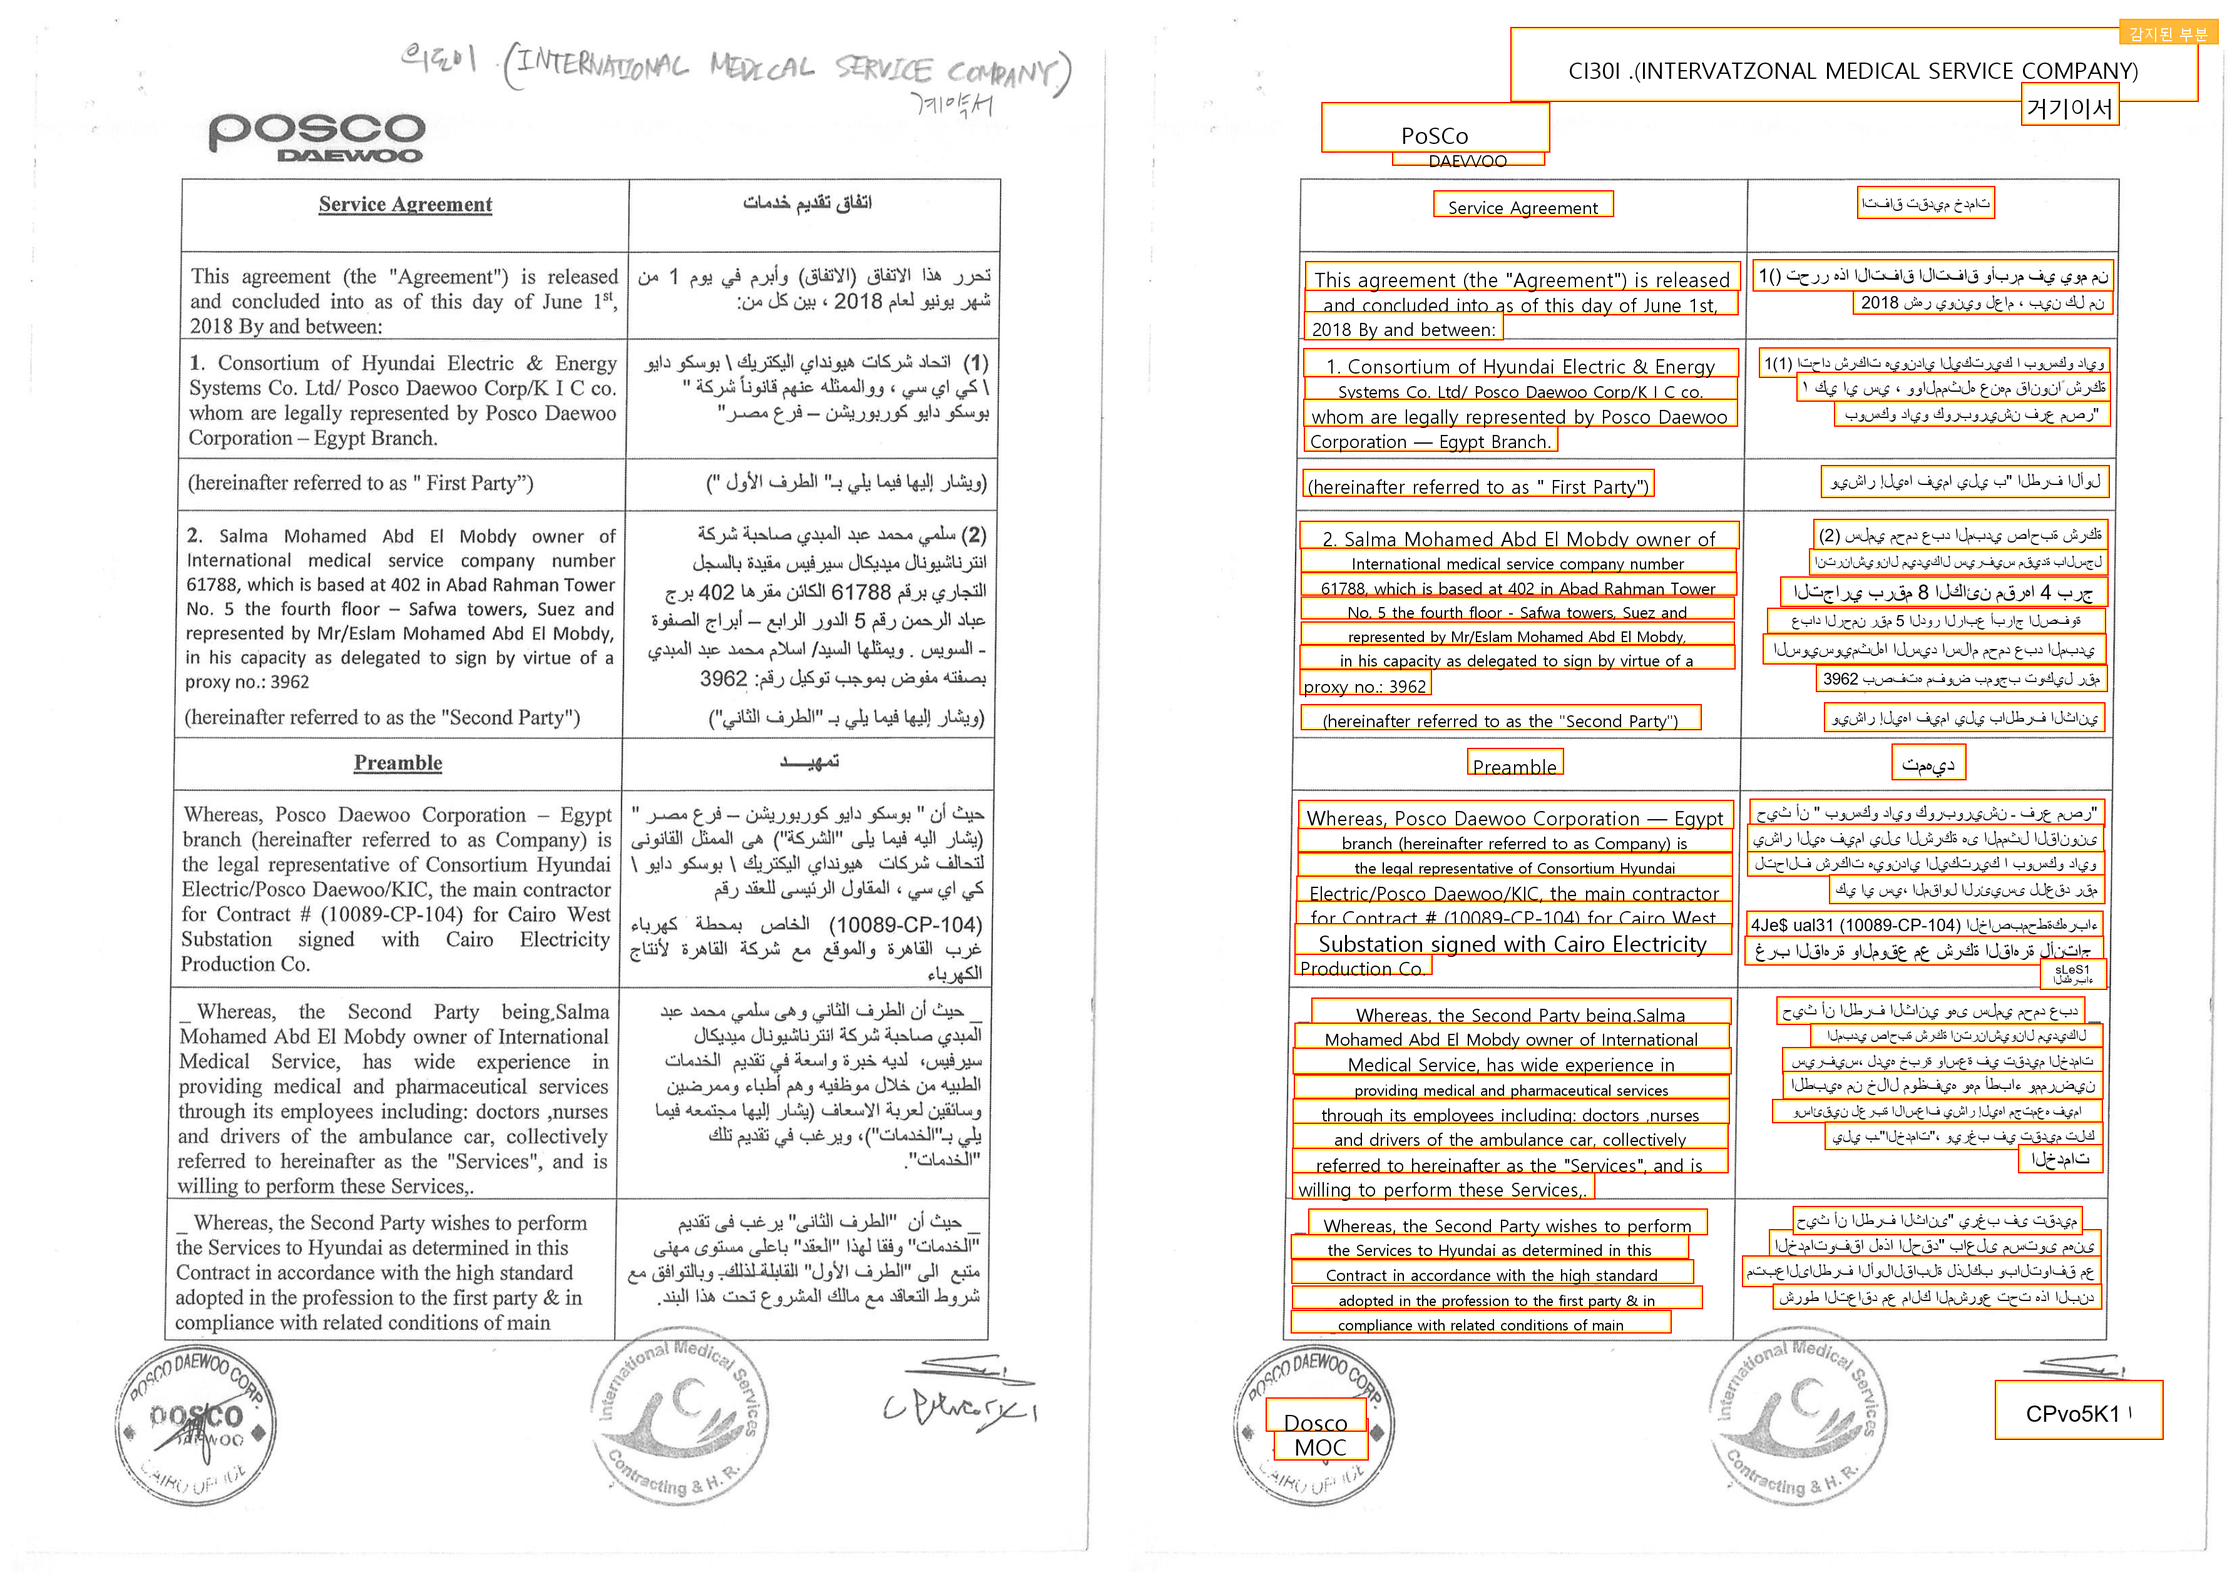
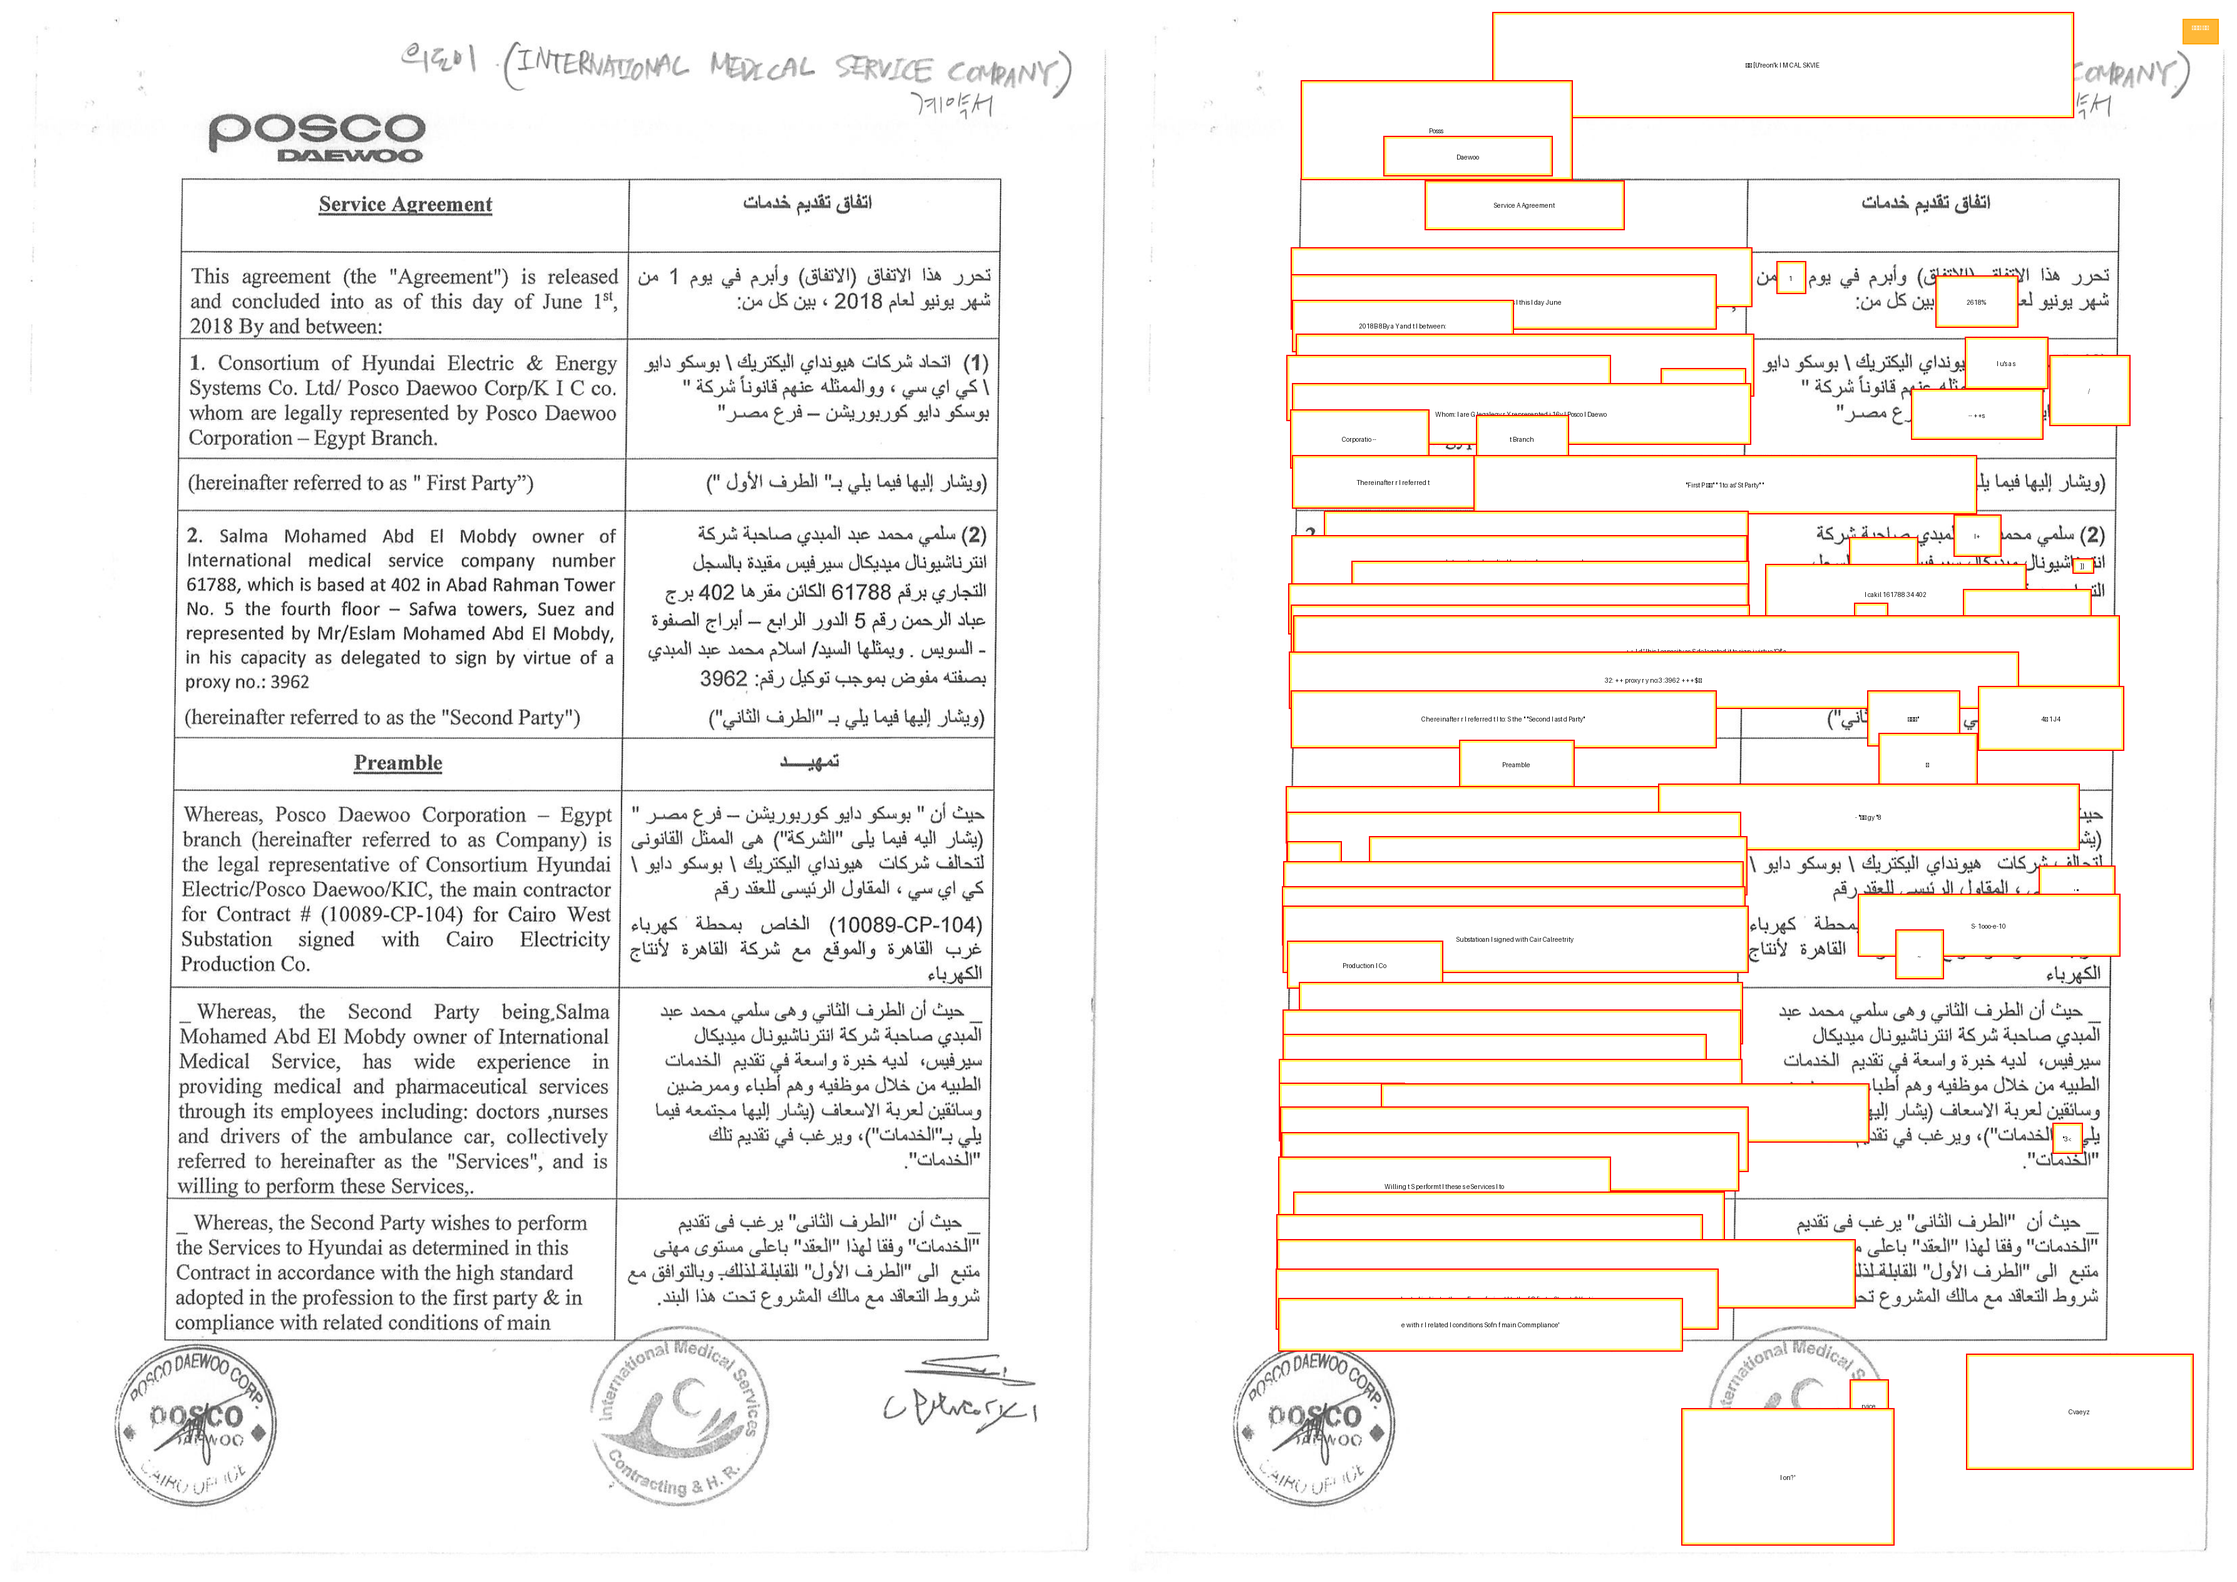
Optimize OCR processing by disabling angle classification for faster performance, update PaddleOCR initialization parameters for improved accuracy, and enhance README with installation instructions and usage examples for different processing modes. Remove outdated OCR result images.

Changed region(s): [[0.559, 0.0, 0.9938, 0.9375], [0.7454, 0.875, 0.8696, 0.9688]]

diff --git a/final-gpu.py b/final-gpu.py
@@ -1522,8 +1522,9 @@ def process_pdf_page_ocr_only(page, ocr, ocr_type='paddle', ocr_ar=None, debug=F
             # PaddleOCR 사용
             if ocr_ar is not None:
                 # 두 OCR 모두 실행 (한국어+영어와 중국어/아랍어+영어)
-                result_ko = ocr.ocr(tmp_path, cls=True)
-                result_other = ocr_ar.ocr(tmp_path, cls=True)
+                # cls=False for faster processing (angle classifier already enabled in initialization)
+                result_ko = ocr.ocr(tmp_path, cls=False)
+                result_other = ocr_ar.ocr(tmp_path, cls=False)
                 
                 # 두 결과를 합치기 (중복 제거를 위해 bbox 기반으로)
                 all_rec_texts = []
@@ -1736,8 +1737,8 @@ def process_pdf_page_ocr_only(page, ocr, ocr_type='paddle', ocr_ar=None, debug=F
                         except Exception as e:
                             pass
             else:
-                # 단일 OCR 사용
-                result = ocr.ocr(tmp_path, cls=True)
+                # 단일 OCR 사용 (OCR-only mode: faster, no need for cls since angle classifier is enabled in init)
+                result = ocr.ocr(tmp_path, cls=False)
                 
                 # PaddleOCR 결과 파싱
                 texts, bboxes, scores = parse_paddleocr_result(result)
@@ -3640,13 +3641,19 @@ elif OCR_ENGINE == 'paddle':
         # 모든 언어 번역: 한국어 OCR, 중국어 OCR, 아랍어 OCR 모두 사용
         print("  → 한국어 OCR 모델 사용 (한국어, 영어 인식)")
         ocr = PaddleOCR(
-            use_angle_cls=False,
+            use_angle_cls=True,  # Enable angle classifier for better accuracy
             use_gpu=True,
             show_log=False,
             use_doc_orientation_classify=True,
             use_doc_unwarping=False,
             use_textline_orientation=False,
-            lang='korean'  # 한국어 모드 (한국어, 영어 인식)
+            lang='korean',  # 한국어 모드 (한국어, 영어 인식)
+            det_db_unclip_ratio=2.0,  # Text region expansion ratio (better for longer text)
+            det_limit_side_len=1920,  # Image size limit (higher = more accurate)
+            max_text_length=50,  # Maximum text length (default 25, increase for longer sentences)
+            rec_batch_num=6,  # Recognition batch size (faster processing)
+            det_db_thresh=0.3,  # Text detection threshold (lower = detect more text)
+            det_db_box_thresh=0.6  # Text box threshold
         )
         print("  → 중국어 OCR 모델 사용 (한자, 영어 인식)")
         ocr_ch = PaddleOCR(
@@ -3747,8 +3754,9 @@ if OCR_VIEW_MODE:
             pbar.set_description(f"페이지 {display_page_num}/{total_pages} 처리 중")
             
             # 페이지 처리 (OCR만 수행)
+            # OCR-only mode: use only main OCR for speed (no need for multiple OCR instances)
             pbar.set_postfix({"단계": "OCR 수행 중"})
-            original_img, ocr_img = process_pdf_page_ocr_only(page, ocr, ocr_type=OCR_ENGINE, ocr_ar=ocr_ar, debug=False, page_num=display_page_num)
+            original_img, ocr_img = process_pdf_page_ocr_only(page, ocr, ocr_type=OCR_ENGINE, ocr_ar=None, debug=False, page_num=display_page_num)
             
             # 두 이미지를 나란히 붙이기 (왼쪽: 원본, 오른쪽: OCR 결과)
             pbar.set_postfix({"단계": "이미지 결합 중"})

diff --git a/README.md b/README.md
@@ -42,12 +42,25 @@ pip install torch==2.2.0 torchvision==0.17.0 torchaudio==2.2.0 --index-url https
 
 If you need PaddleOCR, install it separately:
 
+**Important:** PaddlePaddle 3.0.0+ is required for OpenSSL 3.0 compatibility (Ubuntu 22.04+ systems). The GPU version must be installed from the official PaddlePaddle repository, not PyPI.
+
+For **GPU version** (CUDA 11.8):
 ```bash
-pip install paddlepaddle-gpu>=2.5.0
-pip install paddleocr>=2.7.0
+python -m pip install paddlepaddle-gpu==3.0.0 -i https://www.paddlepaddle.org.cn/packages/stable/cu118/
+pip install paddleocr==2.7.0
 ```
 
-**Note:** PaddleOCR installation may require additional system dependencies. Refer to [PaddleOCR documentation](https://github.com/PaddlePaddle/PaddleOCR) for details.
+For **CPU version**:
+```bash
+pip install paddlepaddle==3.0.0
+pip install paddleocr==2.7.0
+```
+
+**Note:** 
+- PaddlePaddle 2.x versions require OpenSSL 1.1, which is not available on Ubuntu 22.04+ systems (which have OpenSSL 3.0)
+- Version 3.0.0+ supports OpenSSL 3.0 and is compatible with modern Linux distributions
+- The GPU version must be installed from the official PaddlePaddle repository to ensure GPU support
+- PaddleOCR installation may require additional system dependencies. Refer to [PaddleOCR documentation](https://github.com/PaddlePaddle/PaddleOCR) for details.
 
 ### Step 5: Install common packages from requirements.txt
 
@@ -64,6 +77,9 @@ Verify that all packages are installed correctly:
 ```bash
 # Check PyTorch installation
 python -c "import torch; print(f'PyTorch: {torch.__version__}'); print(f'CUDA available: {torch.cuda.is_available()}')"
+
+# Check PaddlePaddle GPU (if installed)
+python -c "import paddle; print(f'PaddlePaddle version: {paddle.__version__}'); print(f'GPU available: {paddle.device.is_compiled_with_cuda()}'); print(f'GPU count: {paddle.device.cuda.device_count() if paddle.device.is_compiled_with_cuda() else 0}')"
 
 # Check PaddleOCR (if installed)
 python -c "from paddleocr import PaddleOCR; print('PaddleOCR installed successfully')"
@@ -87,10 +103,51 @@ Or you can modify the `OPENAI_API_KEY` variable directly in the script files.
 
 ## Usage
 
+### Processing Modes
+
+The script supports three main processing modes:
+
+1. **OCR-Only Mode** (`--ocr-view` or `--ocr-only`): Fast mode that shows OCR results without translation
+   - Shows: **Original | OCR Result** side by side
+   - No API calls, very fast
+   - Use this to check OCR accuracy before translation
+
+2. **Full View Mode** (`--full-view` or `--ocr-translate-view`): Complete processing with OCR and translation
+   - Shows: **Original | OCR Result | Translation** side by side
+   - Includes translation via OpenAI API (slower, costs API credits)
+   - Use this for final translated output
+
+3. **Translation Mode** (default): Creates translated PDF only
+   - Generates translated PDF file
+   - No comparison images (unless using `--full-view`)
+
 ### GPU Version (Recommended for faster processing)
 
+**OCR-Only Mode (Fast - Check OCR results first):**
 ```bash
-python final-gpu.py --file ./sample_data/마일스톤.pdf --ocr paddle --model gpt-4o --mode all
+# Process all pages - OCR only
+python final-gpu.py --file ./sample_data/2.2.4 의료비 지출내역.pdf --ocr paddle --ocr-view
+
+# Process specific pages - OCR only
+python final-gpu.py --file ./sample_data/2.2.4 의료비 지출내역.pdf --ocr paddle --ocr-view 2,3,4
+```
+
+**Full View Mode (OCR + Translation):**
+```bash
+# Process all pages with translation
+python final-gpu.py --file ./sample_data/2.2.4 의료비 지출내역.pdf --ocr paddle --model gpt-4o --mode all --full-view
+
+# Process specific pages with translation
+python final-gpu.py --file ./sample_data/2.2.4 의료비 지출내역.pdf --ocr paddle --model gpt-4o --mode all --full-view 2,3,4
+```
+
+**Translation Mode (Default - Translated PDF only):**
+```bash
+# Process all pages - translation only
+python final-gpu.py --file ./sample_data/2.2.4 의료비 지출내역.pdf --ocr paddle --model gpt-4o --mode all
+
+# Process specific pages - translation only
+python final-gpu.py --file ./sample_data/2.2.4 의료비 지출내역.pdf --ocr paddle --model gpt-4o --mode all 2,3,4
 ```
 
 ### CPU Version
@@ -101,11 +158,33 @@ python final-cpu.py --file ./sample_data/your_file.pdf --ocr paddle --model gpt-
 
 ### Command Line Arguments
 
-- `--file`: Path to the PDF file to process
-- `--ocr`: OCR engine to use (`paddle`, `easyocr`, etc.)
-- `--model`: OpenAI model to use (`gpt-4o`, `gpt-4o-mini`, `gpt-3.5-turbo`, etc.)
-- `--mode`: Processing mode
-- `--ocr-view`: Display OCR results (optional)
+- `--file` or `-f`: Path to the PDF file to process
+- `--ocr` or `-o`: OCR engine to use (`paddle`, `easyocr`)
+- `--model` or `-m`: OpenAI model to use (`gpt-4o`, `gpt-4o-mini`, `gpt-3.5-turbo`, etc.)
+- `--mode`: Translation mode (`all`, `eng_only`, `eng_chi`, `eng_ar`)
+  - `all`: Translate all languages (English, Arabic, Chinese)
+  - `eng_only`: Translate only English
+  - `eng_chi`: Translate English only (keep Chinese characters)
+  - `eng_ar`: Translate English and Arabic
+- `--ocr-view` or `--ocr-only`: OCR-only mode (fast, no translation)
+- `--full-view` or `--ocr-translate-view`: Full view mode (OCR + Translation with comparison images)
+- **Page numbers**: Specify at the end of command (e.g., `1`, `1,3,5`, `1-10`, `1,3,5-8`)
+
+### Page Selection Examples
+
+```bash
+# Single page
+python final-gpu.py --file document.pdf --ocr paddle --ocr-view 1
+
+# Multiple specific pages
+python final-gpu.py --file document.pdf --ocr paddle --ocr-view 2,3,4
+
+# Page range
+python final-gpu.py --file document.pdf --ocr paddle --ocr-view 1-10
+
+# Mixed (specific pages + range)
+python final-gpu.py --file document.pdf --ocr paddle --ocr-view 1,3,5-8,10-15
+```
 
 ## Project Structure
 
@@ -131,10 +210,20 @@ These packages require special installation methods:
    ```
 
 2. **PaddleOCR** (optional):
+   
+   **For GPU version (CUDA 11.8):**
    ```bash
-   pip install paddlepaddle-gpu>=2.5.0
-   pip install paddleocr>=2.7.0
+   python -m pip install paddlepaddle-gpu==3.0.0 -i https://www.paddlepaddle.org.cn/packages/stable/cu118/
+   pip install paddleocr==2.7.0
    ```
+   
+   **For CPU version:**
+   ```bash
+   pip install paddlepaddle==3.0.0
+   pip install paddleocr==2.7.0
+   ```
+   
+   **Important:** PaddlePaddle 3.0.0+ is required for OpenSSL 3.0 compatibility. The GPU version must be installed from the official PaddlePaddle repository (not PyPI) to ensure GPU support.
 
 ### Common Packages (from requirements.txt)
 
@@ -153,6 +242,19 @@ See `requirements.txt` for the complete list of common dependencies.
 - Check GPU status: `nvidia-smi`
 - Verify PyTorch CUDA: `python -c "import torch; print(torch.cuda.is_available())"`
 
+### PaddlePaddle OpenSSL Issues
+
+- **Error: `libssl.so.1.1: cannot open shared object file`**
+  - This occurs when using PaddlePaddle 2.x on systems with OpenSSL 3.0 (Ubuntu 22.04+)
+  - **Solution:** Install PaddlePaddle 3.0.0+ which supports OpenSSL 3.0:
+    ```bash
+    # For GPU version
+    python -m pip install paddlepaddle-gpu==3.0.0 -i https://www.paddlepaddle.org.cn/packages/stable/cu118/
+    
+    # For CPU version
+    pip install paddlepaddle==3.0.0
+    ```
+
 ### PaddlePaddle cuDNN Issues
 
 - If you see `RuntimeError: Cannot load cudnn shared library`, set the library path before running:
@@ -163,6 +265,7 @@ See `requirements.txt` for the complete list of common dependencies.
   ```bash
   conda install -c conda-forge cudnn=8.9.2.26=cuda11_0 -y
   ```
+- **Note:** PaddlePaddle 3.0.0 will automatically install the required cuDNN version during installation
 
 ### OCR Library Issues
 
@@ -191,12 +294,36 @@ See `requirements.txt` for the complete list of common dependencies.
 - Check your OpenAI account quota and billing
 - Ensure you have internet connection for API calls
 
+## Output Files
+
+### OCR-Only Mode (`--ocr-view`)
+- **Images**: Saved in `results/` folder
+  - Format: `ocr_result_{OCR_ENGINE}_{filename}_page_{page_number}.png`
+  - Shows: Original | OCR Result side by side
+
+### Full View Mode (`--full-view`)
+- **Images**: Saved in `results/` folder
+  - Format: `full_result_{OCR_ENGINE}_{filename}_page_{page_number}.png`
+  - Shows: Original | OCR Result | Translation side by side
+- **PDF**: Saved in current directory
+  - Format: `translated_{filename}.pdf` or `translated_{filename}_page_{pages}.pdf`
+  - Contains translated pages only
+
+### Translation Mode (default)
+- **PDF**: Saved in current directory
+  - Format: `translated_{filename}.pdf` or `translated_{filename}_page_{pages}.pdf`
+  - Contains translated pages only
+
 ## Notes
 
 - The project supports multiple OCR engines (PaddleOCR, EasyOCR)
 - OpenAI models can be configured (gpt-4o, gpt-4o-mini, gpt-3.5-turbo)
-- Results are saved in the `results/` directory
+- **Recommended workflow**: Use `--ocr-view` first to check OCR accuracy, then use `--full-view` for translation
+- Results are saved in the `results/` directory (for images) and current directory (for PDFs)
 - Sample data is provided in `sample_data/` for testing
+- Translation speed depends on the number of text elements detected and the OpenAI model used
+  - `gpt-4o-mini`: Faster and cheaper, good quality
+  - `gpt-4o`: Slower and more expensive, higher quality
 
 ## License
 
